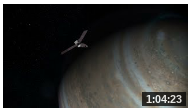
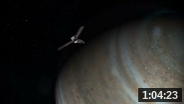
Added fullscreen support

diff --git a/kstars/skyguides/qml/GuidesListView.qml b/kstars/skyguides/qml/GuidesListView.qml
@@ -4,8 +4,153 @@ import QtWebKit 1.0
 Rectangle
 {
 	id: rootRect
-	width: 210
-	height: 400
+	state: "listing"
+	states:
+	[
+		State
+		{
+			name: "listing"
+			PropertyChanges
+			{
+				target: presentationList
+				visible: true
+			}
+			PropertyChanges
+			{
+				target: rootRect
+				width: 210
+				height: 400
+			}
+			PropertyChanges
+			{
+				target: fullscreenButton
+				state: "invisible"
+			}
+		},
+		State
+		{
+			name: "normalPresentation"
+			PropertyChanges
+			{
+				target: presentationList
+				visible: false
+			}
+			PropertyChanges
+			{
+				target: rootRect
+				width: webView.preferredWidth
+				height: webView.preferredHeight
+			}
+			PropertyChanges
+			{
+				target: webView
+				visible: true
+			}
+			PropertyChanges
+			{
+				target: fullscreenButton
+				visible: true
+				state: "ghost"
+				source: "view-fullscreen.png"
+			}
+		},
+		State
+		{
+			name: "fullscreenPresentation"
+			PropertyChanges
+			{
+				target: presentationList
+				visible: false
+			}
+			PropertyChanges
+			{
+				target: webView
+				visible: true;
+				preferredWidth: widget.getScreenWidth()
+				preferredHeight: widget.getScreenHeight()
+			}
+			PropertyChanges
+			{
+				target: fullscreenButton
+				visible: true
+				state: "ghost"
+				source: "view-restore.png"
+			}
+		}
+	]
+
+	Image
+	{
+		id: fullscreenButton
+		z: 3
+		anchors.right: rootRect.right
+		anchors.rightMargin: 5
+		anchors.top: rootRect.top
+		anchors.topMargin: 5
+
+		state: "invisible"
+		states:
+		[
+			State
+			{
+				name: "visible"
+				PropertyChanges
+				{
+					target: fullscreenButton
+					opacity: 1
+					visible: true
+				}
+			},
+			State
+			{
+				name: "ghost"
+				PropertyChanges
+				{
+					target: fullscreenButton
+					opacity: 0.01
+					visible: true
+				}
+			},
+			State
+			{
+				name: "invisible"
+				PropertyChanges
+				{
+					target: fullscreenButton
+					visible: false
+				}
+			}
+		]
+
+		MouseArea
+		{
+			anchors.fill: parent
+			hoverEnabled : true
+			onClicked:
+			{
+				if (widget.fullScreen)
+				{
+					widget.showNormal()
+					rootRect.state = "normalPresentation"
+				}
+				else
+				{
+					widget.showFullScreen()
+					rootRect.state = "fullscreenPresentation"
+				}
+			}
+			onEntered:
+			{
+				parent.state = "visible"
+			}
+			onExited:
+			{
+				parent.state = "ghost"
+			}
+		}
+
+		Behavior on opacity { PropertyAnimation {} }
+	}
 
 	WebView
 	{
@@ -15,11 +160,7 @@ Rectangle
 		preferredWidth: 640
 		preferredHeight: 480
 		z: 2
-		onLoadFinished:
-		{
-			rootRect.width = width;
-			rootRect.height = height;
-		}
+		onLoadFinished: { rootRect.state = "normalPresentation" }
 		javaScriptWindowObjects:
 		[
 			QtObject
@@ -52,7 +193,7 @@ Rectangle
 		visible: ((webView.progress > 0.01) && (webView.progress < 1) )
 		z:3
 		color: "white"
-		text: webView.progress*100 + "%"
+		text: "Loading " + webView.progress*100 + "%"
 		anchors.horizontalCenter: parent.horizontalCenter
 		anchors.verticalCenter: parent.verticalCenter
 		height: 30
@@ -61,9 +202,9 @@ Rectangle
 
 	ListView
 	{
+		id: presentationList
 		height: parent.height - anchors.margins * 2
 		width: parent.width - anchors.margins * 2
-		visible: !webView.visible
 		z: 1
 		anchors.margins: 8
 		anchors.top: parent.top
@@ -75,7 +216,7 @@ Rectangle
 		{
 			Rectangle
 			{
-				width: parent.parent.parent.width
+				width: presentationList.width
 				height: 150
 				color: "grey"
 				border.color: "black"
@@ -94,22 +235,20 @@ Rectangle
 				
 				Image
 				{
-					width: parent.width - 6
-					anchors.margins: 3
+					width: parent.width - 9
+					height: parent.height - 40
+					fillMode: Image.Stretch
 					anchors.top: titleText.bottom
+					anchors.topMargin: 3
 					anchors.left: parent.left
+					anchors.leftMargin: 5
 					source: path + "/thumbnail.png"
 				}
 				
 				MouseArea
 				{
 					anchors.fill: parent
-
-					onClicked:
-					{
-						webView.visible = true;
-						webView.url = path + "/index.html"
-					}
+					onClicked: { webView.url = path + "/index.html" }
 				}
 			}
 		}

diff --git a/kstars/skyguides/guides/jupiter_documentary/index.html b/kstars/skyguides/guides/jupiter_documentary/index.html
@@ -4,6 +4,6 @@
 	</head>
 	<body>
 		<!--<script>window.qml.qmlCall();</script>-->
-		<iframe width="98%" height="98%" src="http://www.youtube.com/embed/Z1tIS-S-Mqw" frameborder="0" allowfullscreen="true" ></iframe>
+		<iframe width="100%" height="97%" src="http://www.youtube.com/embed/Z1tIS-S-Mqw" frameborder="0" allowfullscreen="true" ></iframe>
 	</body>
 </html>

diff --git a/kstars/skyguides/guides/jupiter_the_big/index.html b/kstars/skyguides/guides/jupiter_the_big/index.html
@@ -4,6 +4,6 @@
 	</head>
 	<body>
 		<!--<script>window.qml.qmlCall();</script>-->
-		<iframe width="98%" height="98%" src="http://www.youtube.com/embed/s56pxa9lpvo" frameborder="0" allowfullscreen="true" ></iframe>
+		<iframe width="100%" height="97%" src="http://www.youtube.com/embed/s56pxa9lpvo" frameborder="0" allowfullscreen="true" ></iframe>
 	</body>
 </html>

diff --git a/kstars/skyguides/skyguideslistview.cpp b/kstars/skyguides/skyguideslistview.cpp
@@ -1,5 +1,5 @@
 /***************************************************************************
-                          skyguideslistview.h  -  K Desktop Planetarium
+                          skyguideslistview.cpp  -  K Desktop Planetarium
                              -------------------
     begin                : 2014/04/07
     copyright            : (C) 2014 by Gioacchino Mazzurco
@@ -15,9 +15,10 @@
  *                                                                         *
  ***************************************************************************/
 
-#include <QWidget>
 #include <QDeclarativeContext>
 #include <QVariant>
+#include <QDesktopWidget>
+#include <QRect>
 
 #include <kstandarddirs.h>
 #include <kdeclarative.h>
@@ -29,24 +30,54 @@
 
 
 SkyGuidesListView::SkyGuidesListView(const SkyGuidesListModel & guidesModel, SkyMap * skyMap) :
-	QWidget(skyMap),
+	QDeclarativeView(0),
 	mSkyMapQmlAdapter(skyMap),
-	mKStarsDataQmlAdapter(this),
-	mBaseView()
-{	
+	mKStarsDataQmlAdapter(this)
+{
 	///To use i18n() instead of qsTr() in qml/wiview.qml for translation
 	KDeclarative kd;
-	kd.setDeclarativeEngine(mBaseView.engine());
+	kd.setDeclarativeEngine(engine());
 	kd.initialize();
 	kd.setupBindings();
 
-	mBaseView.rootContext()->setContextProperty( "guidesmodel", QVariant::fromValue(guidesModel.data()) );
-	mBaseView.rootContext()->setContextProperty( "skymap", &mSkyMapQmlAdapter );
-	mBaseView.rootContext()->setContextProperty( "skydata", &mKStarsDataQmlAdapter );
+	rootContext()->setContextProperty( "guidesmodel", QVariant::fromValue(guidesModel.data()) );
+	rootContext()->setContextProperty( "skymap", &mSkyMapQmlAdapter );
+	rootContext()->setContextProperty( "skydata", &mKStarsDataQmlAdapter );
+	rootContext()->setContextProperty( "widget", this );
 
 	QString qmlpath = KStandardDirs::locate("appdata","skyguides/qml/GuidesListView.qml");
-	mBaseView.setSource(qmlpath);
-	mBaseView.setResizeMode(QDeclarativeView::SizeViewToRootObject);
+	setSource(qmlpath);
+	setResizeMode(QDeclarativeView::SizeViewToRootObject);
+}
+
+void SkyGuidesListView::showNormal()
+{
+	setResizeMode(QDeclarativeView::SizeViewToRootObject);
+	QDeclarativeView::showNormal();
+}
+
+void SkyGuidesListView::showFullScreen()
+{
+	setResizeMode(QDeclarativeView::SizeRootObjectToView);
+	QDeclarativeView::showFullScreen();
+}
+
+void SkyGuidesListView::showMaximized()
+{
+	setResizeMode(QDeclarativeView::SizeRootObjectToView);
+	QDeclarativeView::showFullScreen();
+}
+
+int SkyGuidesListView::getScreenWidth()
+{
+	QDesktopWidget desk;
+	return desk.availableGeometry(desk.primaryScreen()).width();
+}
+
+int SkyGuidesListView::getScreenHeight()
+{
+	QDesktopWidget desk;
+	return desk.availableGeometry(desk.primaryScreen()).height();
 }
 
 SkyGuidesListView::~SkyGuidesListView()

diff --git a/kstars/skyguides/skyguideslistview.h b/kstars/skyguides/skyguideslistview.h
@@ -19,13 +19,13 @@
 #define SKYGUIDESLISTVIEW_H
 
 #include <QDeclarativeView>
+#include <QGridLayout>
 
 #include "skyguideslistmodel.h"
 
 #include "skydataqmladapter.h"
 #include "skymapqmladapter.h"
 
-class QWidget;
 class SkyMap;
 
 
@@ -37,7 +37,7 @@ class SkyMap;
   * sent to the UI for display.
   * \author Gioacchino Mazzurco
   */
-class SkyGuidesListView : public QWidget
+class SkyGuidesListView : public QDeclarativeView
 {
 	Q_OBJECT
 
@@ -51,16 +51,17 @@ public:
 	 * \brief Destructor
 	 */
 	~SkyGuidesListView();
-	
-	/**
-	 * \brief Displays the user interface
-	 */
-	inline void show() { mBaseView.show(); };
+
+public slots:
+	void showNormal();
+	void showFullScreen();
+	void showMaximized();
+	int getScreenWidth();
+	int getScreenHeight();
 
 private:
 	SkyMapQmlAdapter mSkyMapQmlAdapter;
 	SkyDataQmlAdapter mKStarsDataQmlAdapter;
-	QDeclarativeView mBaseView;
 };
 
 #endif // SKYGUIDESLISTVIEW_H
